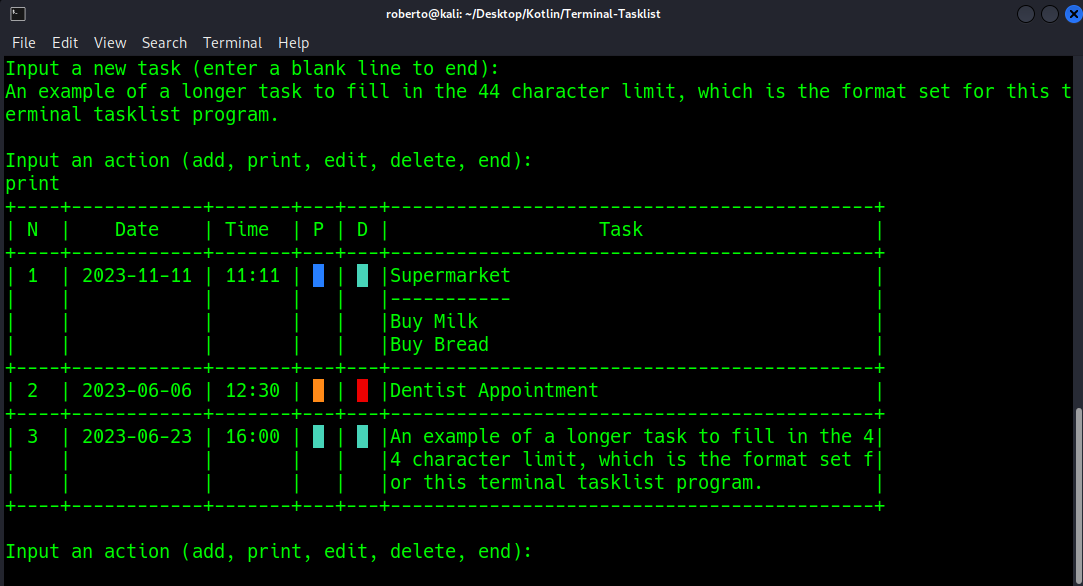
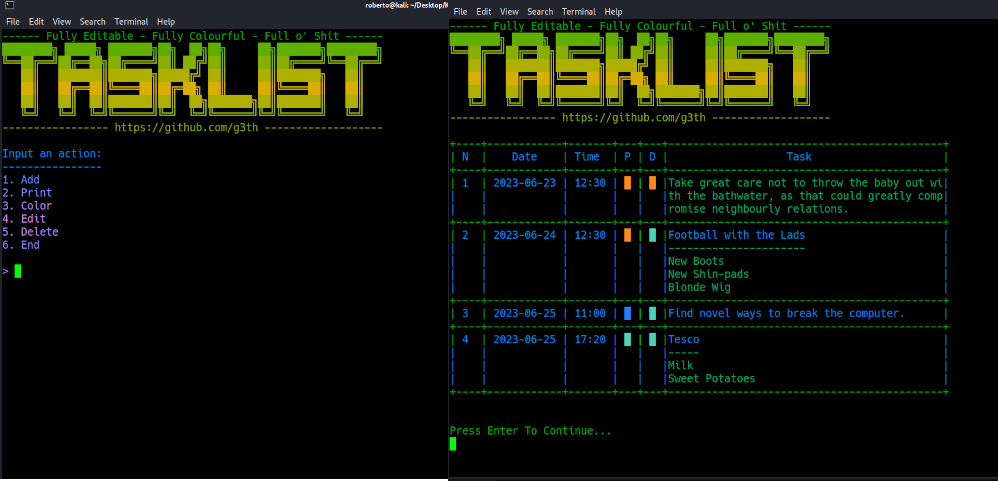
fixed/added: new graphics, fixed edit functions, set colour and more

Changed region(s): [[0.0, 0.0, 1.0, 1.0]]

diff --git a/printout.kt b/printout.kt
@@ -1,79 +1,119 @@
 package tasklist
 
 import java.io.*
-
+import kotlin.system.exitProcess
 data class tasks (val tasksTDP: List<String>, val task: List<String>)
 
 class PrintOut {
-	
-	lateinit var setBorder: String
-	lateinit var setText: String
+	val escSeq = "\u001B[38;5;"
+	var setBorder: Int? = null
+	var setText: Int? = null
+	private var gradientStart: Int? = null
+	private val colorScheme = File("colorScheme")
+	private lateinit var colorSchemeContent: List<String>
 	lateinit var header_one: String
 	lateinit var header_two: String
 	lateinit var header_three: String
 	lateinit var header_bottom: String
-	private val colorScheme = File("colorScheme")
-	private val colorSchemeContent = colorScheme.readLines()
+
 	
-	fun table(){
+	
+	init {
 		if (colorScheme.exists()){
-			val escSeq = "\u001B[38;5;"
-			val gradientStart = colorSchemeContent[0].split(";")[2].replace("m","").toInt()
-			setBorder = colorSchemeContent[0]
-			setText = colorSchemeContent[1]
-			println("${escSeq}${gradientStart}m████████╗███████╗██████╗ ███╗   ███╗██╗███╗   ██╗ █████╗ ██╗        ████████╗ █████╗ ███████╗██╗  ██╗██╗     ██╗███████╗████████╗")
-			println("${escSeq}${gradientStart+36}m╚══██╔══╝██╔════╝██╔══██╗████╗ ████║██║████╗  ██║██╔══██╗██║        ╚══██╔══╝██╔══██╗██╔════╝██║ ██╔╝██║     ██║██╔════╝╚══██╔══╝")
-			println("${escSeq}${gradientStart+72}m   ██║   █████╗  ██████╔╝██╔████╔██║██║██╔██╗ ██║███████║██║           ██║   ███████║███████╗█████╔╝ ██║     ██║███████╗   ██║")
-			println("${escSeq}${gradientStart+108}m   ██║   ██╔══╝  ██╔══██╗██║╚██╔╝██║██║██║╚██╗██║██╔══██║██║           ██║   ██╔══██║╚════██║██╔═██╗ ██║     ██║╚════██║   ██║")
-			println("${escSeq}${gradientStart+144}m   ██║   ███████╗██║  ██║██║ ╚═╝ ██║██║██║ ╚████║██║  ██║███████╗      ██║   ██║  ██║███████║██║  ██╗███████╗██║███████║   ██║")
-			println("${escSeq}${gradientStart+180}m   ╚═╝   ╚══════╝╚═╝  ╚═╝╚═╝     ╚═╝╚═╝╚═╝  ╚═══╝╚═╝  ╚═╝╚══════╝      ╚═╝   ╚═╝  ╚═╝╚══════╝╚═╝  ╚═╝╚══════╝╚═╝╚══════╝   ╚═╝")
-			println("------------------------------------------------------------------------------------------------------------------------------")					
-			header_one = "${setBorder}+----+------------+-------+---+---+--------------------------------------------+"
-			header_two = "${setBorder}| ${setText}N${setBorder}  |    ${setText}Date${setBorder}    | ${setText}Time${setBorder}  | ${setText}P${setBorder} | ${setText}D${setBorder} |                   ${setText}Task${setBorder}                     |"
-			header_three = "${setBorder}+----+------------+-------+---+---+--------------------------------------------+"
-			header_bottom = "\n${setBorder}+----+------------+-------+---+---+--------------------------------------------+"
+			colorSchemeContent = colorScheme.readLines()
+			gradientStart = colorSchemeContent[0].split(";")[2].replace("m","").toInt()
+			setBorder = colorSchemeContent[0].split(";")[2].replace("m","").toInt()
+			setText = colorSchemeContent[1].split(";")[2].replace("m","").toInt()
 		} else {
-			println("Table color scheme not found. Please set Colours before starting:")
+			clearScreen()
 			setColour()
-			colorScheme.writeText(setBorder+"\n")
-			colorScheme.appendText(setText)
 		}
 	}
 	
+	fun table(){
+		println("${escSeq}${gradientStart!!}m------ Fully Editable - Fully Colourful - Full o' Shit ------")
+		println("${escSeq}${gradientStart!!+36}m████████╗ █████╗ ███████╗██╗  ██╗██╗     ██╗███████╗████████╗")
+		println("${escSeq}${gradientStart!!+72}m╚══██╔══╝██╔══██╗██╔════╝██║ ██╔╝██║     ██║██╔════╝╚══██╔══╝")
+		println("${escSeq}${gradientStart!!+108}m   ██║   ███████║███████╗█████╔╝ ██║     ██║███████╗   ██║")
+		println("${escSeq}${gradientStart!!+144}m   ██║   ██╔══██║╚════██║██╔═██╗ ██║     ██║╚════██║   ██║")
+		println("${escSeq}${gradientStart!!+108}m   ██║   ██║  ██║███████║██║  ██╗███████╗██║███████║   ██║")
+		println("${escSeq}${gradientStart!!+72}m   ╚═╝   ╚═╝  ╚═╝╚══════╝╚═╝  ╚═╝╚══════╝╚═╝╚══════╝   ╚═╝")
+		println("----------------- https://github.com/g3th -------------------\n")
+		header_one = "${escSeq}${setBorder}m+----+------------+-------+---+---+--------------------------------------------+"
+		header_two = "${escSeq}${setBorder}m| ${escSeq}${setText}mN${escSeq}${setBorder}m  |    ${escSeq}${setText}mDate${escSeq}${setBorder}m    | ${escSeq}${setText}mTime${escSeq}${setBorder}m  | ${escSeq}${setText}mP${escSeq}${setBorder}m | ${escSeq}${setText}mD${escSeq}${setBorder}m |                   ${escSeq}${setText}mTask${escSeq}${setBorder}m                     |"
+		header_three = "${escSeq}${setBorder}m+----+------------+-------+---+---+--------------------------------------------+"
+		header_bottom = "\n${escSeq}${setBorder}m+----+------------+-------+---+---+--------------------------------------------+"
+		}
+		
+	fun userOptions(){
+		println("${escSeq}${setText!!}mInput an action:\n----------------")
+		println("${escSeq}${setText!!+36}m1. Add")
+		println("${escSeq}${setText!!+72}m2. Print")
+		println("${escSeq}${setText!!+108}m3. Color")
+		println("${escSeq}${setText!!+144}m4. Edit")
+		println("${escSeq}${setText!!+108}m5. Delete")
+		println("${escSeq}${setText!!+72}m6. End")					
+	}
+	
     fun setColour(){
-		println("Enter Border color (0 - 255):")
-		val setB = readln()
-		println("Enter Text color (0 - 255):")
-		val setT = readln()
-		setBorder = "\u001B[38;5;${setB}m"
-		setText = "\u001B[38;5;${setT}m"
-		colorScheme.delete()
-		colorScheme.writeText(setBorder + "\n")
-		colorScheme.appendText(setText)
+    	while(true){
+    		try{
+    			if (gradientStart != null) {
+    			 	table()
+			 	} else {
+			  		gradientStart = 34
+  					setBorder = 34
+					setText = 34
+    			  	table()
+    			  	println("\u001B[0m\nTable color scheme not found. Please set Colours before starting:")
+			  	}
+				println("Enter Border color (0 - 255):")
+				val setB = readln()
+				println("Enter Text color (0 - 255):")
+				val setT = readln()
+				if (setB.toInt() < 0 || setB.toInt() > 255 || setT.toInt() < 0 || setT.toInt() > 255){
+					println("One of the values entered was invalid.")
+					println("Press Enter to Continue...")
+					readln()
+				} else {
+					colorScheme.delete()
+					colorScheme.writeText("${escSeq}${setB}m\n")
+					colorScheme.appendText("${escSeq}${setT}m")
+					colorSchemeContent = colorScheme.readLines()
+					gradientStart = colorSchemeContent[0].split(";")[2].replace("m","").toInt()
+					setBorder = gradientStart
+					setText = colorSchemeContent[1].split(";")[2].replace("m","").toInt()
+					break				
+				}
+			} catch (e: NumberFormatException){
+				println("One of the values entered is not a number")
+				readln()
+			}
+		}
 	}
 
     fun taskLayout(input: String): String {
         var printoutInput = ""
         val strList = input.split("\n")
         var chunkedList = mutableListOf<String>()
-		setBorder = colorSchemeContent[0]
-		setText = colorSchemeContent[1]
+		setBorder = colorSchemeContent[0].split(";")[2].replace("m","").toInt()
+		setText = colorSchemeContent[1].split(";")[2].replace("m","").toInt()
         for (i in strList) {
             chunkedList += i.chunked(44)
         }
         for(i in chunkedList.indices){
             if (chunkedList[i].length < 44) {
                 if (i == 0){
-                    printoutInput += "${setBorder}${chunkedList[i]} ${" ".repeat(43 - chunkedList[i].length)}|"
+                    printoutInput += "${escSeq}${setBorder!!}m${chunkedList[i]} ${" ".repeat(43 - chunkedList[i].length)}|"
 
                 } else {
-                    printoutInput += "\n${setBorder}|    |            |       |   |   |${setText}${chunkedList[i]} ${" ".repeat(43 - chunkedList[i].length)}${setBorder}|"
+                    printoutInput += "\n${escSeq}${setBorder}m|    |            |       |   |   |${escSeq}${setText}m${chunkedList[i]} ${" ".repeat(43 - chunkedList[i].length)}${escSeq}${setBorder}m|"
                 }
             } else {
                 if (i == 0){
-                    printoutInput += "${setText}${chunkedList[i]}${setBorder}|"
+                    printoutInput += "${escSeq}${setText}m${chunkedList[i]}${escSeq}${setBorder}m|"
                 } else {
-                    printoutInput += "\n${setBorder}|    |            |       |   |   |${setText}${chunkedList[i]}${setBorder}|"
+                    printoutInput += "\n${escSeq}${setBorder}m|    |            |       |   |   |${escSeq}${setText}m${chunkedList[i]}${escSeq}${setBorder}m|"
                 }
             }
         }
@@ -86,7 +126,7 @@ class PrintOut {
         print("${header_one}\n${header_two}\n${header_three}\n")
         for ((a,b) in tasklist) {
             for (c in a.indices) {
-                print("|${setText} $counter${setBorder}  | ${setText}${a[c]} ${setBorder}|${setText}${b[c]}")
+                print("|${escSeq}${setText!!}m $counter${escSeq}${setBorder}m  | ${escSeq}${setText}m${a[c]} ${escSeq}${setBorder}m|${escSeq}${setText}m${b[c]}")
                 println(header_bottom)
                 counter++
             }

diff --git a/tasklist.kt b/tasklist.kt
@@ -27,7 +27,10 @@ class TaskList {
     var tasksTimeDatePriority = mutableListOf<String>()
     var tasks = mutableListOf<String>()
     var jsonTaskList = ""
-
+	
+	/* 	Check for previously saved Tasklist
+		If it exists, load it and populate the lists.
+	*/
     init {
         if (file.exists()) {
             SaveReadJsonFile().readIt(storeJson)
@@ -39,7 +42,6 @@ class TaskList {
                 }
             }
             file.delete()
-            println(tasksTimeDatePriority[0].split(" | ")[2])
         }
     }
 
@@ -70,7 +72,10 @@ class TaskList {
             }
         }
     }
-
+	/* 	Edit Mode:
+		For every field, change both lists, the one to be saved to file (json)
+		and the ones used by the program.
+	*/
     fun editTask() {
         topOfLoop@ while (true) {
             println("Input the task number (1-${tasksTimeDatePriority.size}):")
@@ -137,8 +142,13 @@ class TaskList {
                 println("Invalid task number")
             }
         }
-    }
-
+    }	
+	/*  Task Creation:
+		This is an entirely separate list from
+		time, date and priority, and contains
+		only tasks. This is so chunking, layout and
+		printing is easier.
+	*/
     private fun task(): String {
         var counter = 0
         var tempAppend = ""
@@ -164,13 +174,16 @@ class TaskList {
         result = PrintOut().taskLayout(tempAppend)
         if (result.isNotEmpty() && !taskIsBeingEdited) {
             tasksTimeDatePriority.add(
-                "\u001B[38;5;31m${givenTaskDate}\u001B[38;5;231m | ${givenTaskDateAndTime.split("T")[1]} | ${taskPriority} | $tag"
+                "${givenTaskDate} | ${givenTaskDateAndTime.split("T")[1]} | ${taskPriority} | $tag"
             )
             tasks.add(result)
         }
         return result
     }
-
+	/*  Below are Time, Date, Priority and Tag assignment.
+		This is grouped all in a single list.
+		This way print layout is easier.
+	*/
     private fun date() {
         while (true) {
             println("Input the date (yyyy-mm-dd):")
@@ -197,12 +210,6 @@ class TaskList {
                     inputtedDate[0].toInt(), inputtedDate[1].toInt(),
                     inputtedDate[2].toInt(), inputtedTime[0].toInt(), inputtedTime[1].toInt()
                 ).toString()
-
-                /* This works with datetime 0.4.0:
-                   'LocalTime(time[0].toInt(),time[1].toInt())'
-                   But Hyperskill have the outdated 0.3.1
-                  */
-
                 currentTimeDateAndTaskPriority = "${
                     givenTaskDateAndTime
                         .replace("T", " ")
@@ -249,58 +256,73 @@ fun main() {
 	
 	val print = PrintOut()	
     val tasks = TaskList()
-    val actionList = listOf("print", "edit", "delete")
+    /*  These are actions which won't
+    	function with an empty task list.
+    */
+    val actionList = listOf("2", "4", "5")
     val savedList = SaveReadJsonFile()
-    clearScreen()
-	print.table()
     while (true) {
-        println("Input an action (add, print, color, edit, delete, end):")
+    	clearScreen()
+    	print.table()
+    	print.userOptions()
+        print("\n> ")
         val userInput = readln()
         when {
-            actionList.any { userInput.equals(it, true) } && tasks.tasks.isEmpty() -> {
-                println("No tasks have been input")
-            }
-            userInput.equals("add", true) -> {
+	        actionList.any { userInput.equals(it, true) } && tasks.tasks.isEmpty() -> {
+	            println("No tasks have been input")
+                println("Press Enter To Continue...")
+                readln()
+	        }
+            // Add Task
+            userInput.equals("1", true) -> {
                 tasks.addTask()
                 tasks.storeJson.add(savedList.formatJson(tasks.givenTaskDate.toString(),
                     tasks.givenTaskDateAndTime,
-                    tasks.taskPriority + "${print.setBorder}",
-                    tasks.tag + "${print.setBorder}",
+                    tasks.taskPriority + "${print.escSeq}${print.setBorder}m",
+                    tasks.tag + "${print.escSeq}${print.setBorder}m",
                     tasks.jsonTaskList))
                 tasks.jsonTaskList = ""
             }
-            userInput.equals("print", true) -> {
+            // Print Task
+            userInput.equals("2", true) -> {
             	clearScreen()
             	print.table()
-                print.printTasks(tasks.tasksTimeDatePriority, tasks.tasks)
+				print.printTasks(tasks.tasksTimeDatePriority, tasks.tasks)
+				println("\nPress Enter To Continue...")
+				readln()
             }
-            userInput.equals("color", true) -> {
+            // Set Layout Colours
+            userInput.equals("3", true) -> {
             	clearScreen()
-            	print.table()
             	print.setColour()
             }
-            userInput.equals("delete", true) -> {
+            // Delete a Task
+            userInput.equals("5", true) -> {
             	clearScreen()
             	print.table()
                 print.printTasks(tasks.tasksTimeDatePriority, tasks.tasks)
                 tasks.deleteTask()
             }
-            userInput.equals("edit", true) -> {
+            // Edit Mode
+            userInput.equals("4", true) -> {
             	clearScreen()
             	print.table()
                 print.printTasks(tasks.tasksTimeDatePriority, tasks.tasks)
                 tasks.editTask()
             }
-            userInput.equals("end", true) -> {
-            	clearScreen()
-            	print.table()
-                println("Goodbye.")
+            // Quit
+            userInput.equals("6", true) -> {
+                println("\nGoodbye.")
                 if (tasks.storeJson.isNotEmpty()){
                 	savedList.saveJson(tasks.storeJson)
                 }
                 exitProcess(0)
             }
-            else -> println("The input action is invalid")
+            else -> {
+		        println("\nThe input action is invalid.")
+                println("Press Enter To Continue...")
+                readln()
+            }
         }
     }
 }
